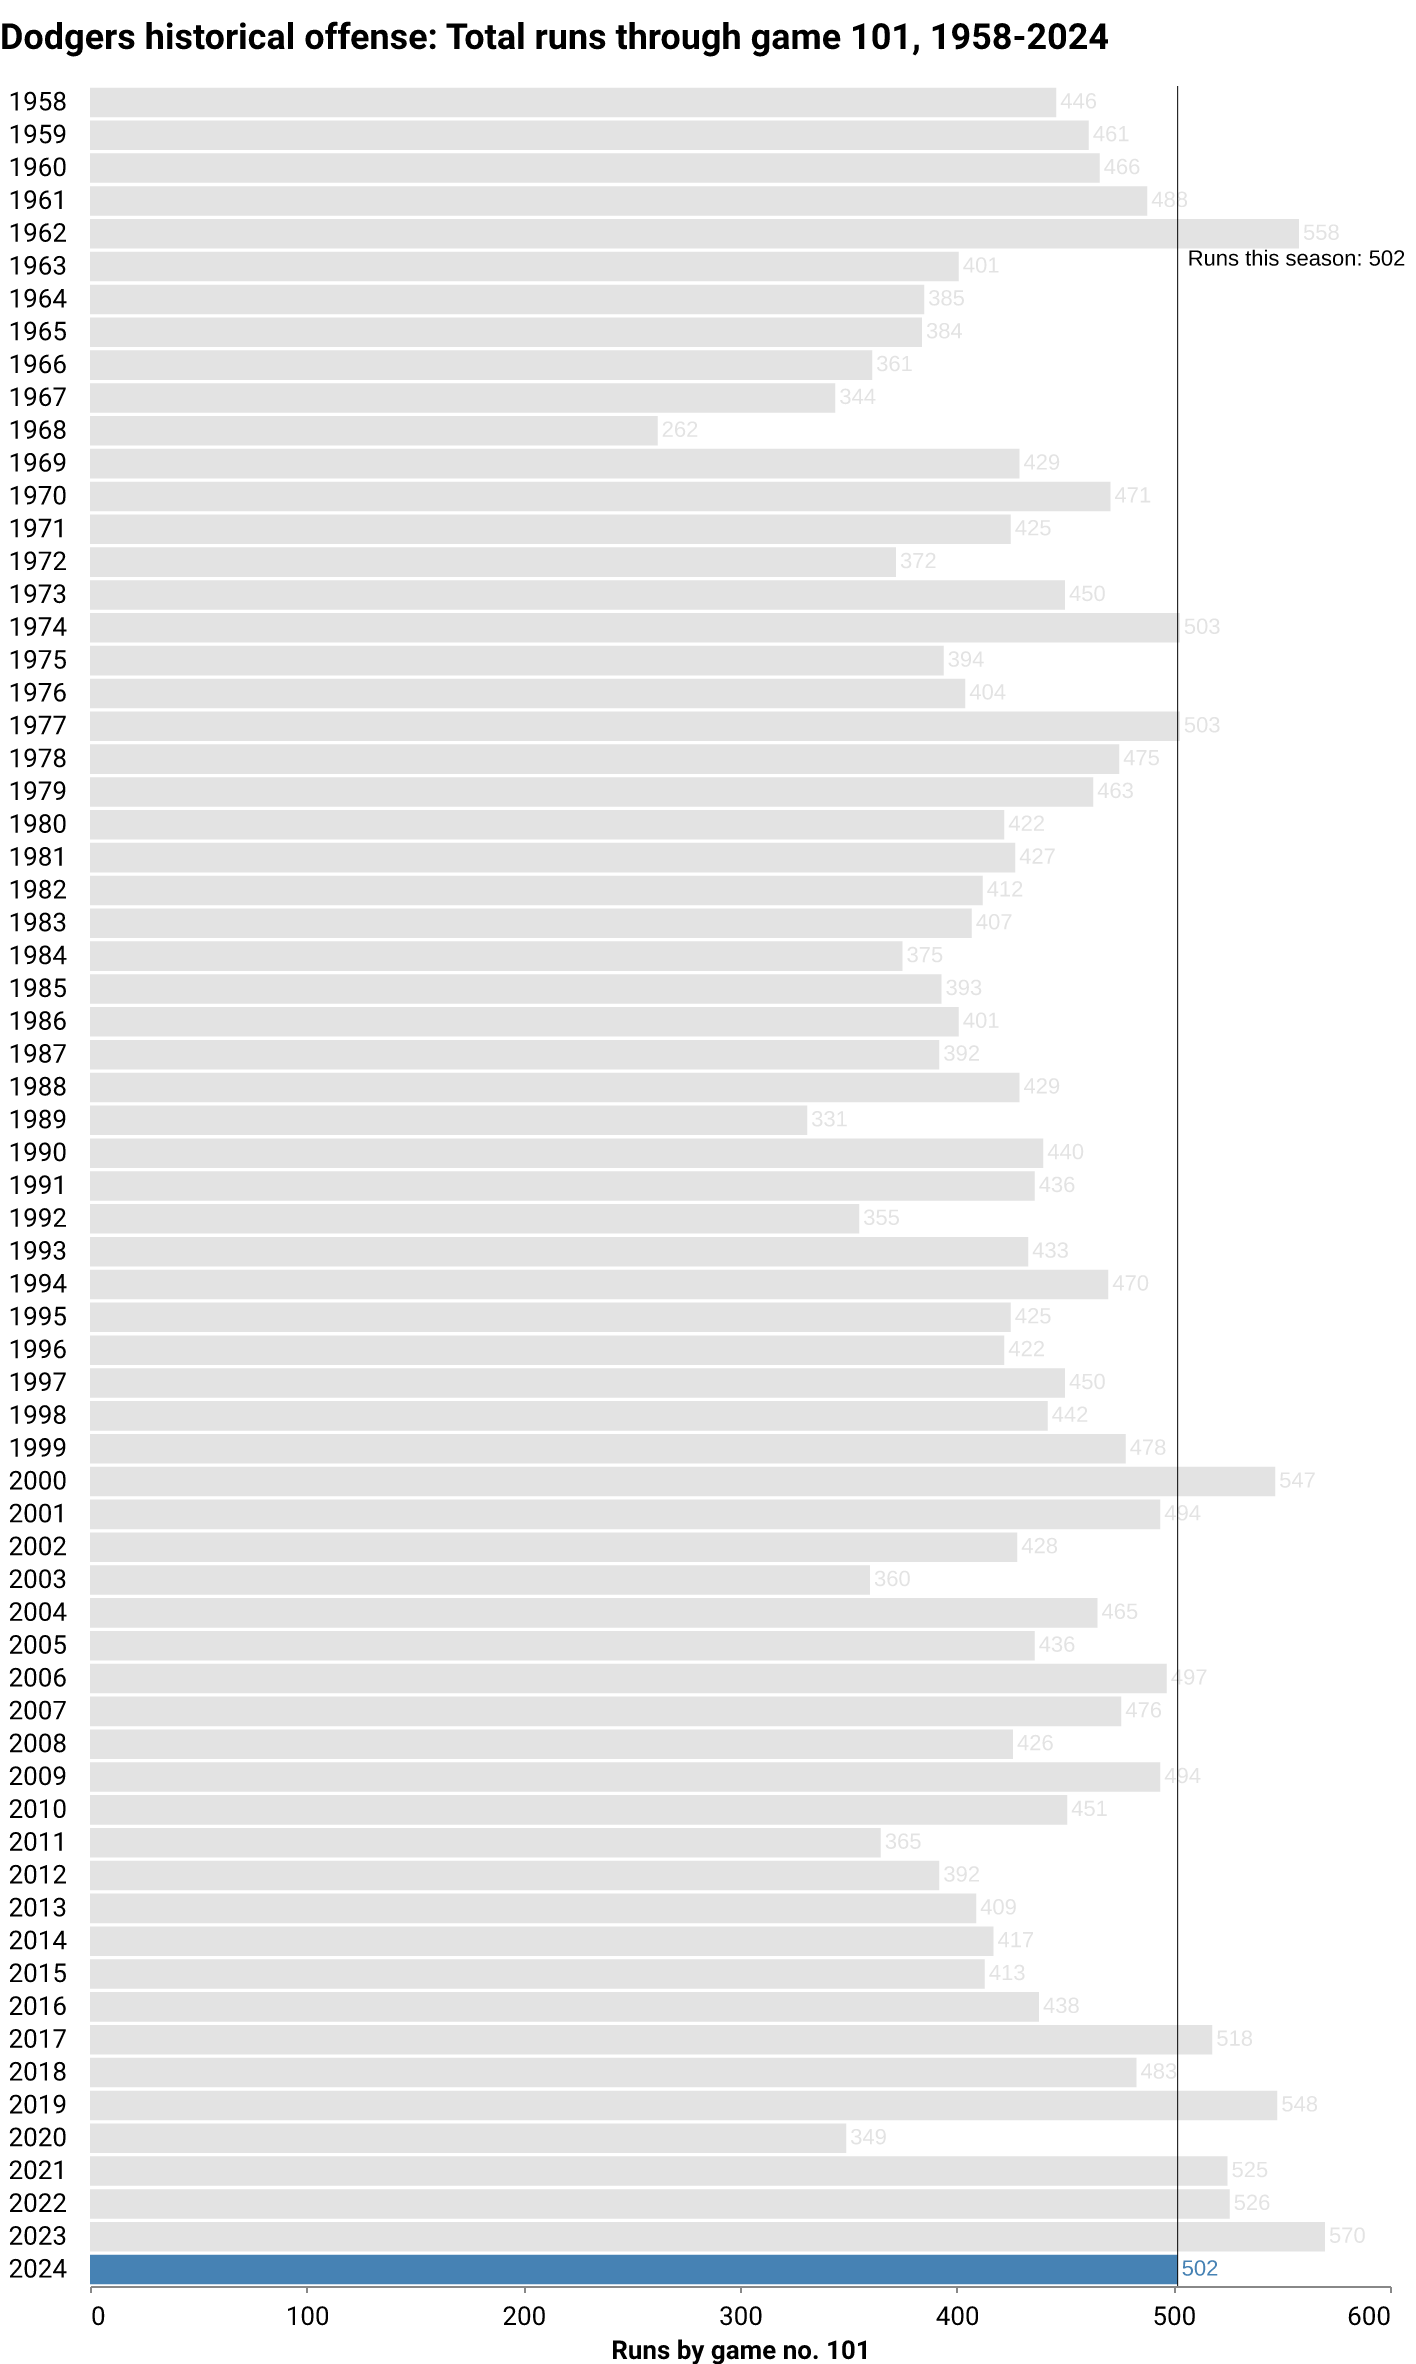
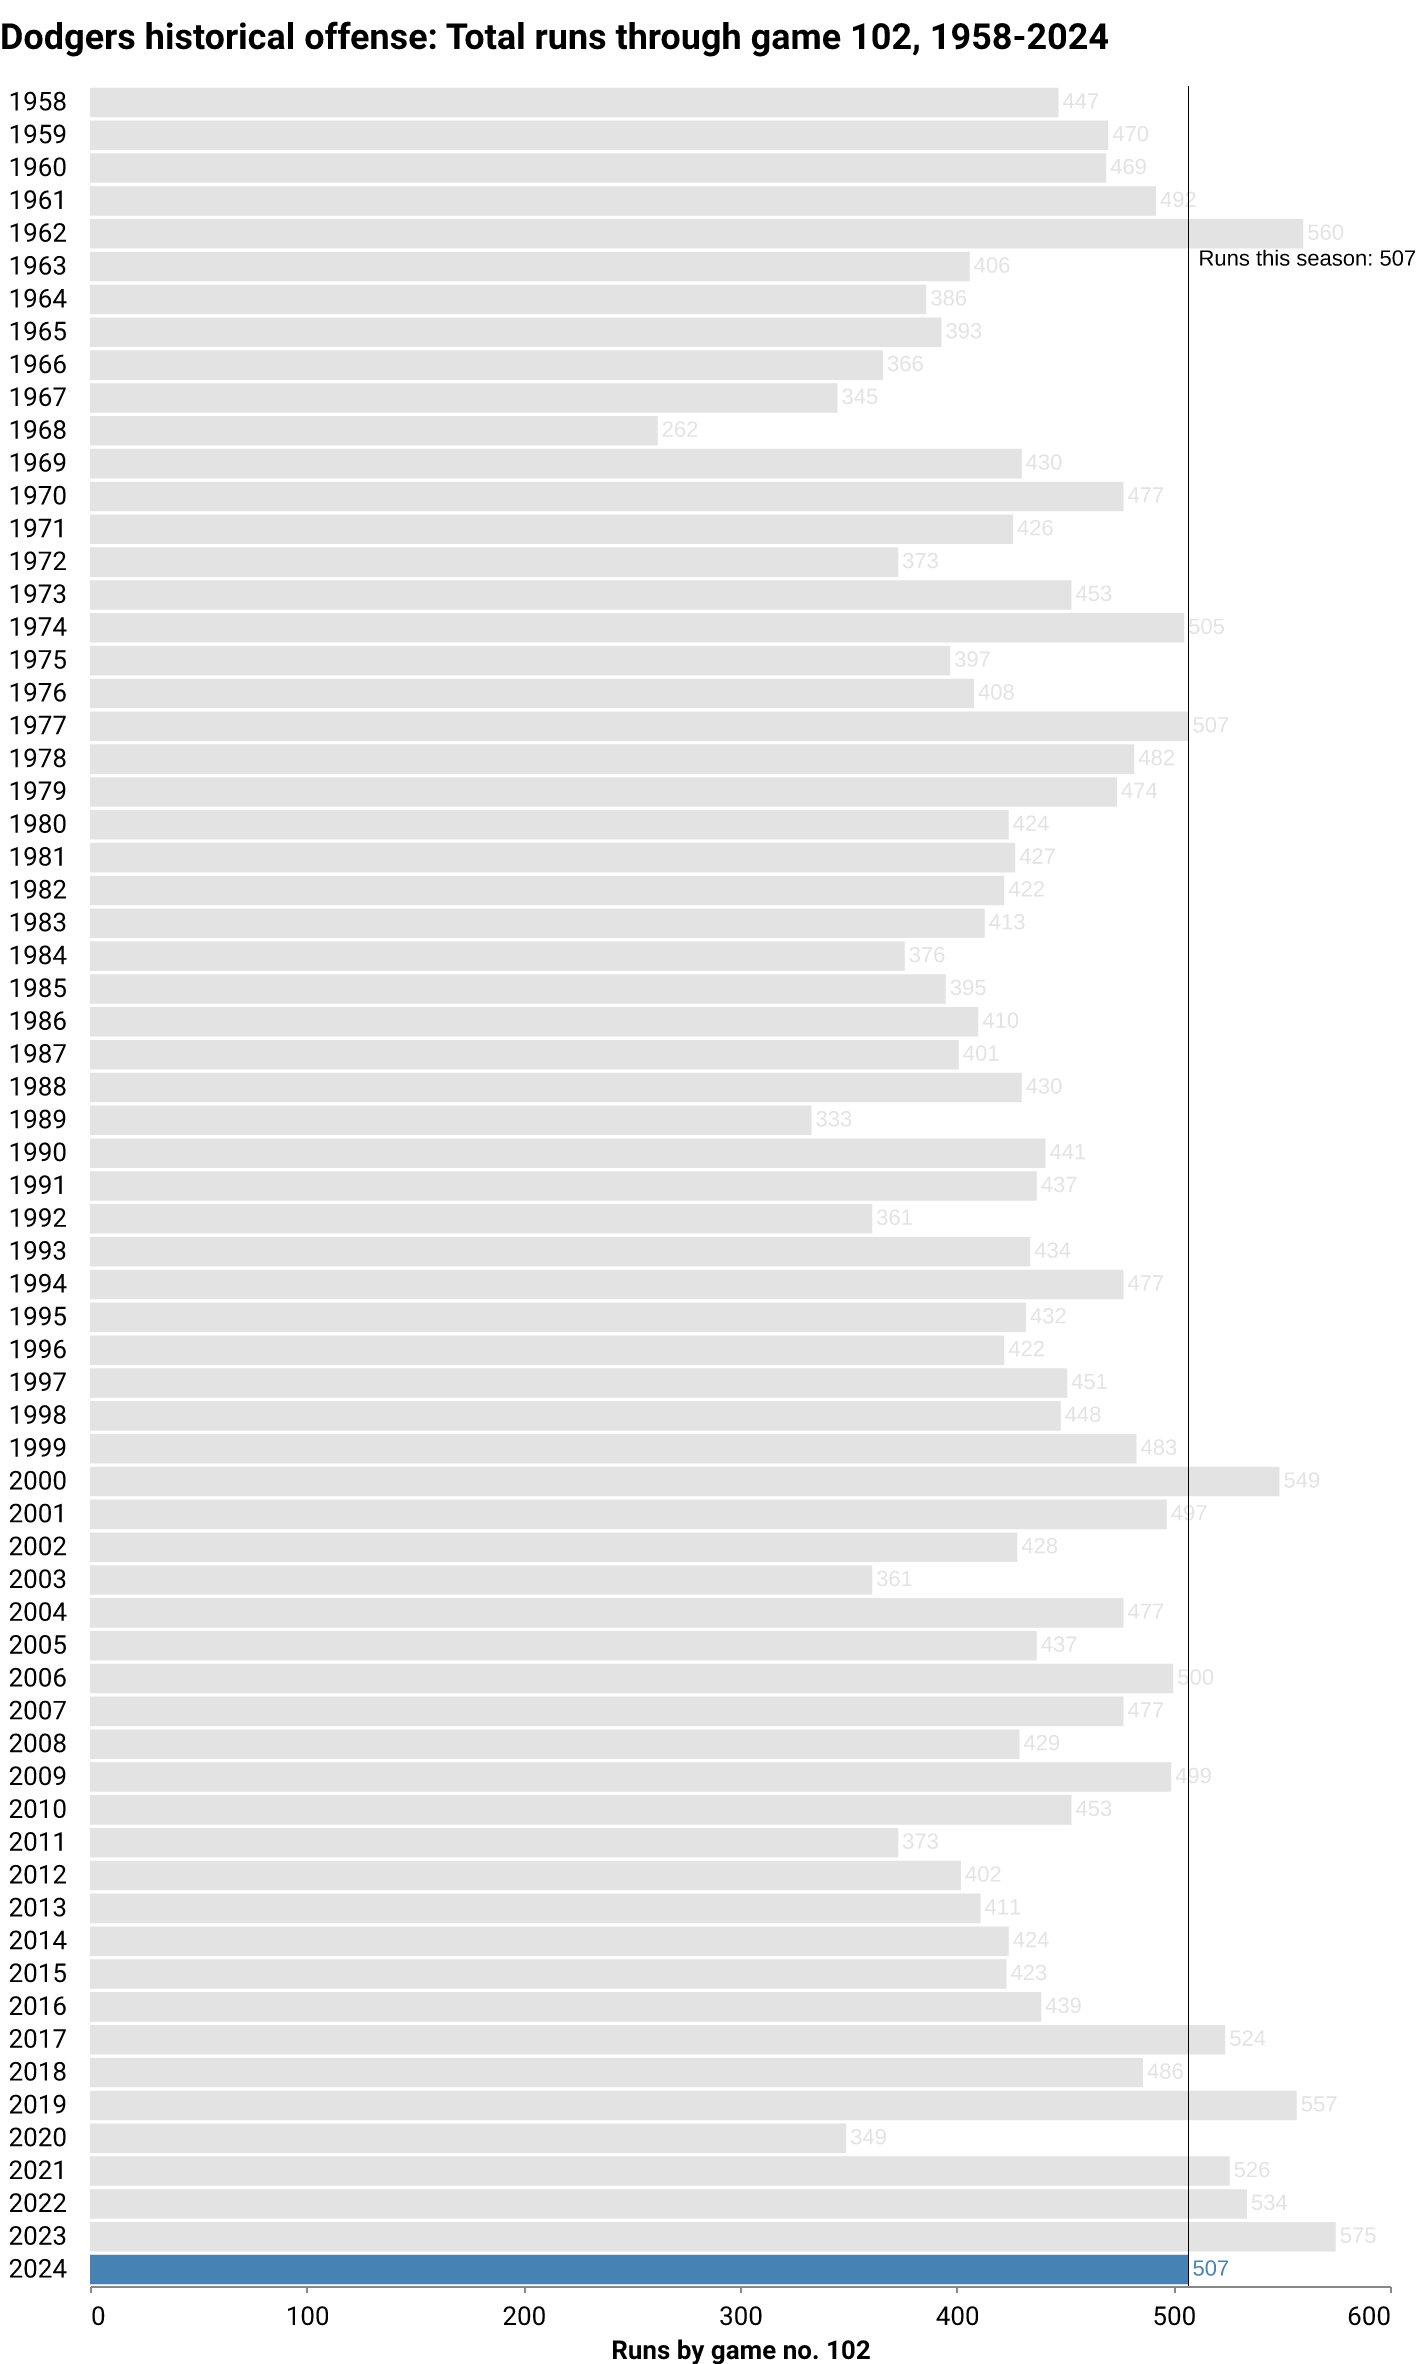
deploy: c20b162fbb412b8f89348b496a88f34d25a5e0ce

diff --git a/index.html b/index.html
@@ -184,7 +184,7 @@
 <p class="subhead">
     
     
-    <span class="highlight">LOS ANGELES</span> <span class="updated">(July 24)</span> — After <span class="highlight">101</span> games this season, the Dodgers are in <span class="highlight">1st</span> place in the National League West division. The team has compiled a <span class="highlight">60-41</span> record, winning <span class="highlight">59%</span> of its games so far. The last game was a <span class="highlight">3-2</span> home <span class="highlight">win</span> against the San Francisco Giants in front of <span class="highlight">49,576</span> fans. They've won <span class="highlight">5 of the last 10</span>.
+    <span class="highlight">LOS ANGELES</span> <span class="updated">(July 24)</span> — After <span class="highlight">102</span> games this season, the Dodgers are in <span class="highlight">1st</span> place in the National League West division. The team has compiled a <span class="highlight">61-41</span> record, winning <span class="highlight">60%</span> of its games so far. The last game was a <span class="highlight">5-2</span> home <span class="highlight">win</span> against the San Francisco Giants in front of <span class="highlight">52,627</span> fans. They've won <span class="highlight">6 of the last 10</span>.
 </p>
 </div>
 
@@ -206,7 +206,7 @@
             Wins
           </div>
           <div class="card-body">
-            <p class="card-text">60</p>
+            <p class="card-text">61</p>
           </div>
           <div class="card-footer text-muted">
         This point last season: 58
@@ -225,7 +225,7 @@
             <p class="card-text">41</p>
           </div>
           <div class="card-footer text-muted">
-        This point last season: 43
+        This point last season: 44
           </div>
         </div>
       </div>
@@ -238,10 +238,10 @@
             Record
           </div>
           <div class="card-body">
-            <p class="card-text">60-41</p>
+            <p class="card-text">61-41</p>
           </div>
           <div class="card-footer text-muted">
-        This point last season: 58-43
+        This point last season: 58-44
           </div>
         </div>
       </div>
@@ -254,7 +254,7 @@
             Win percentage
           </div>
           <div class="card-body">
-            <p class="card-text">59%</p>
+            <p class="card-text">60%</p>
           </div>
           <div class="card-footer text-muted">
         This point last season: 56%
@@ -286,10 +286,10 @@
             Avg. home attendance
           </div>
           <div class="card-body">
-            <p class="card-text">47,946</p>
+            <p class="card-text">48,036</p>
           </div>
           <div class="card-footer text-muted">
-        Home games this season: 51
+        Home games this season: 52
           </div>
         </div>
       </div>
@@ -302,7 +302,7 @@
             Runs
           </div>
           <div class="card-body">
-            <p class="card-text">502</p>
+            <p class="card-text">507</p>
           </div>
           <div class="card-footer text-muted">
         League rank: 1
@@ -318,10 +318,10 @@
             Runs against
           </div>
           <div class="card-body">
-            <p class="card-text">406</p>
+            <p class="card-text">408</p>
           </div>
           <div class="card-footer text-muted">
-        This point last season: 473
+        This point last season: 479
           </div>
         </div>
       </div>
@@ -334,10 +334,10 @@
             Run differential
           </div>
           <div class="card-body">
-            <p class="card-text">96</p>
+            <p class="card-text">99</p>
           </div>
           <div class="card-footer text-muted">
-        This point last season: 97
+        This point last season: 96
           </div>
         </div>
       </div>
@@ -440,7 +440,7 @@
             Home runs/game
           </div>
           <div class="card-body">
-            <p class="card-text">1.38</p>
+            <p class="card-text">1.36</p>
           </div>
           <div class="card-footer text-muted">
         Last decade average: 1.36
@@ -456,7 +456,7 @@
             On-base percentage
           </div>
           <div class="card-body">
-            <p class="card-text">.334</p>
+            <p class="card-text">.335</p>
           </div>
           <div class="card-footer text-muted">
         Last decade average: .332
@@ -472,7 +472,7 @@
             Stolen bases
           </div>
           <div class="card-body">
-            <p class="card-text">61</p>
+            <p class="card-text">62</p>
           </div>
           <div class="card-footer text-muted">
         League rank: 9
@@ -488,7 +488,7 @@
             Stolen bases/game
           </div>
           <div class="card-body">
-            <p class="card-text">0.6</p>
+            <p class="card-text">0.61</p>
           </div>
           <div class="card-footer text-muted">
         Rate all last season: 0.65
@@ -598,7 +598,7 @@
             Strikeouts
           </div>
           <div class="card-body">
-            <p class="card-text">862</p>
+            <p class="card-text">870</p>
           </div>
           <div class="card-footer text-muted">
         League rank: 6
@@ -614,10 +614,10 @@
             Walks
           </div>
           <div class="card-body">
-            <p class="card-text">311</p>
+            <p class="card-text">317</p>
           </div>
           <div class="card-footer text-muted">
-        League rank: 9
+        League rank: 10
           </div>
         </div>
       </div>
@@ -630,7 +630,7 @@
             ERA
           </div>
           <div class="card-body">
-            <p class="card-text">3.73</p>
+            <p class="card-text">3.71</p>
           </div>
           <div class="card-footer text-muted">
         League rank: 3
@@ -708,7 +708,7 @@
     </div>
 </div>
 
-  <p class="dated">Notes: Last updated July 24, 2024, 12:03 AM PT. More <a href="https://github.com/stiles/dodgers/blob/main/README.md">about the data</a>.</p>
+  <p class="dated">Notes: Last updated July 24, 2024, 4:03 AM PT. More <a href="https://github.com/stiles/dodgers/blob/main/README.md">about the data</a>.</p>
   
 </div>
 
